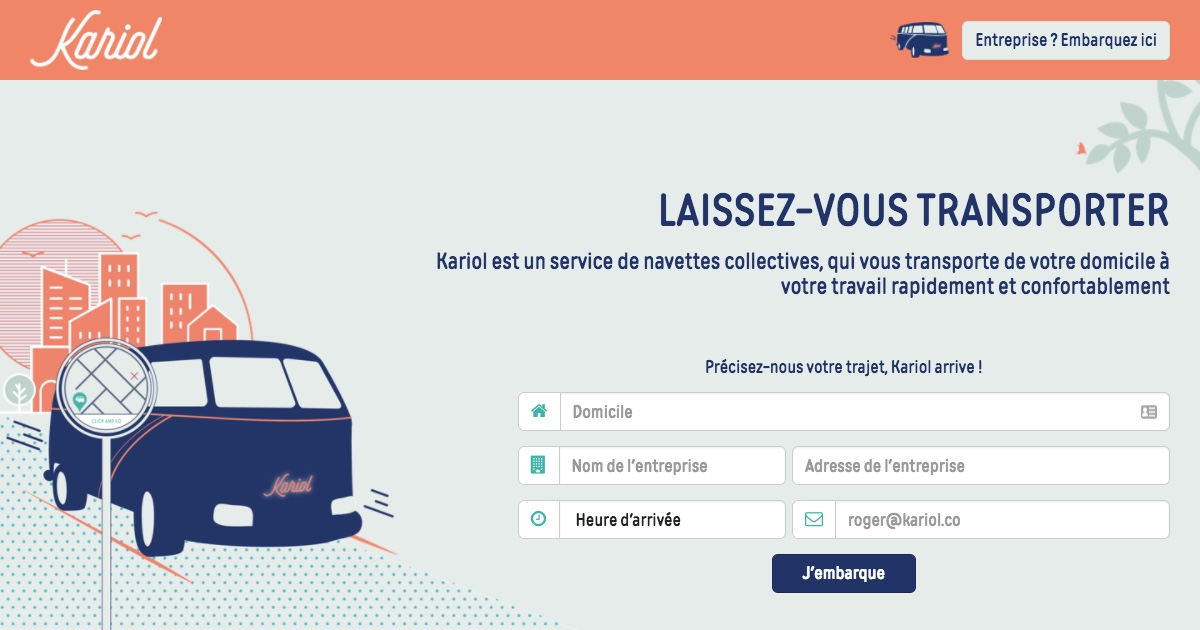
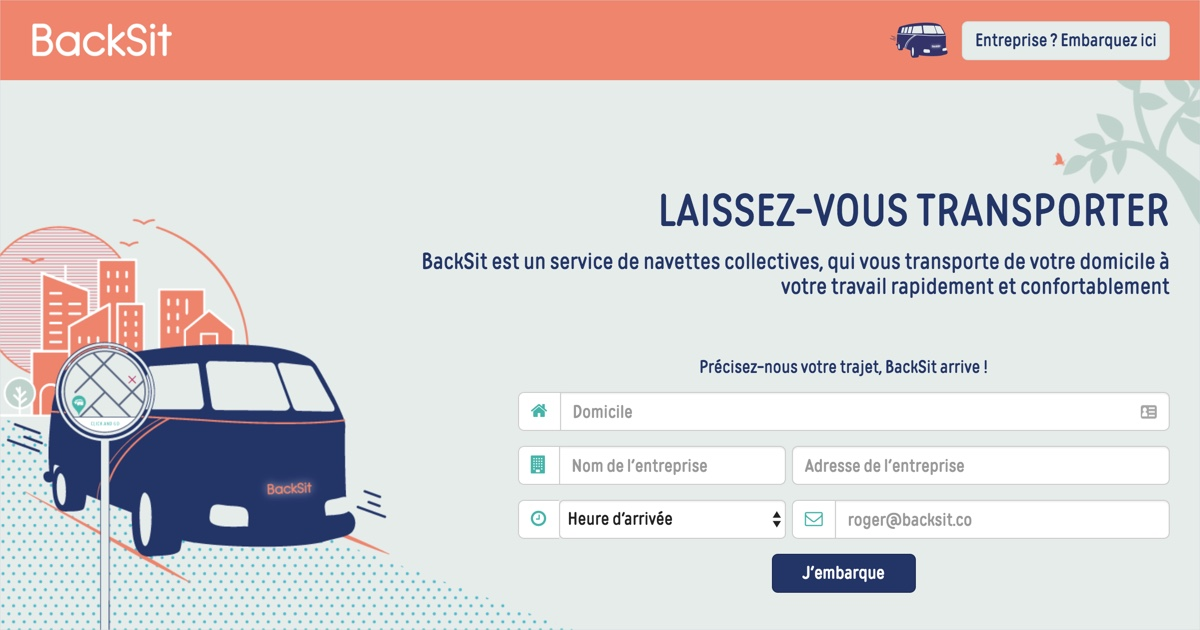
change site for backsit

diff --git a/app/assets/stylesheets/components/_banner.scss b/app/assets/stylesheets/components/_banner.scss
@@ -29,8 +29,8 @@
     }
     &-cta {
       img {
-        height: 36px;
-        margin-right: 10px;
+        height: 60px;
+        margin: -10px 10px -10px 0;
       }
     }
   }

diff --git a/config/routes.rb b/config/routes.rb
@@ -7,9 +7,10 @@ Rails.application.routes.draw do
   mount ForestLiana::Engine => '/forest'
 
   root to: 'pages#home'
-  get 'entreprise', to: 'pages#enterprise', as: :enterprise
-  get 'daily', to: 'pages#daily'
-  get 'business', to: 'pages#business'
+  get 'entreprise', to: 'pages#daily', as: :enterprise
+  # get 'entreprise', to: 'pages#enterprise', as: :enterprise
+  # get 'daily', to: 'pages#daily'
+  # get 'business', to: 'pages#business'
   get 'legal', to: 'pages#legal'
 
   resources :business_requests, only: [ :create ]
